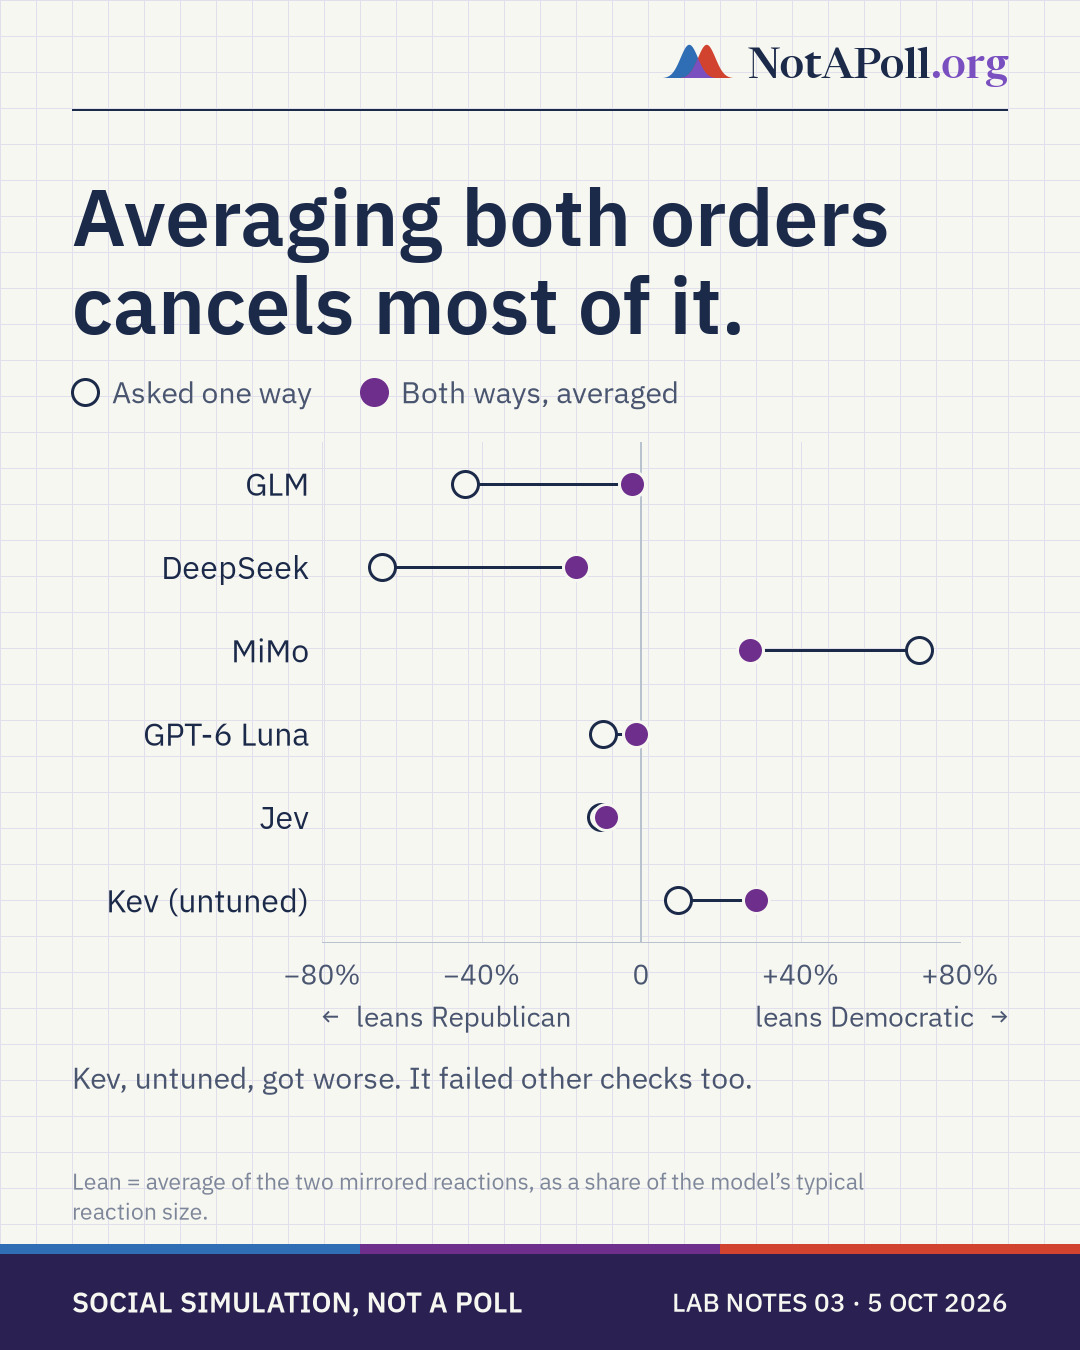
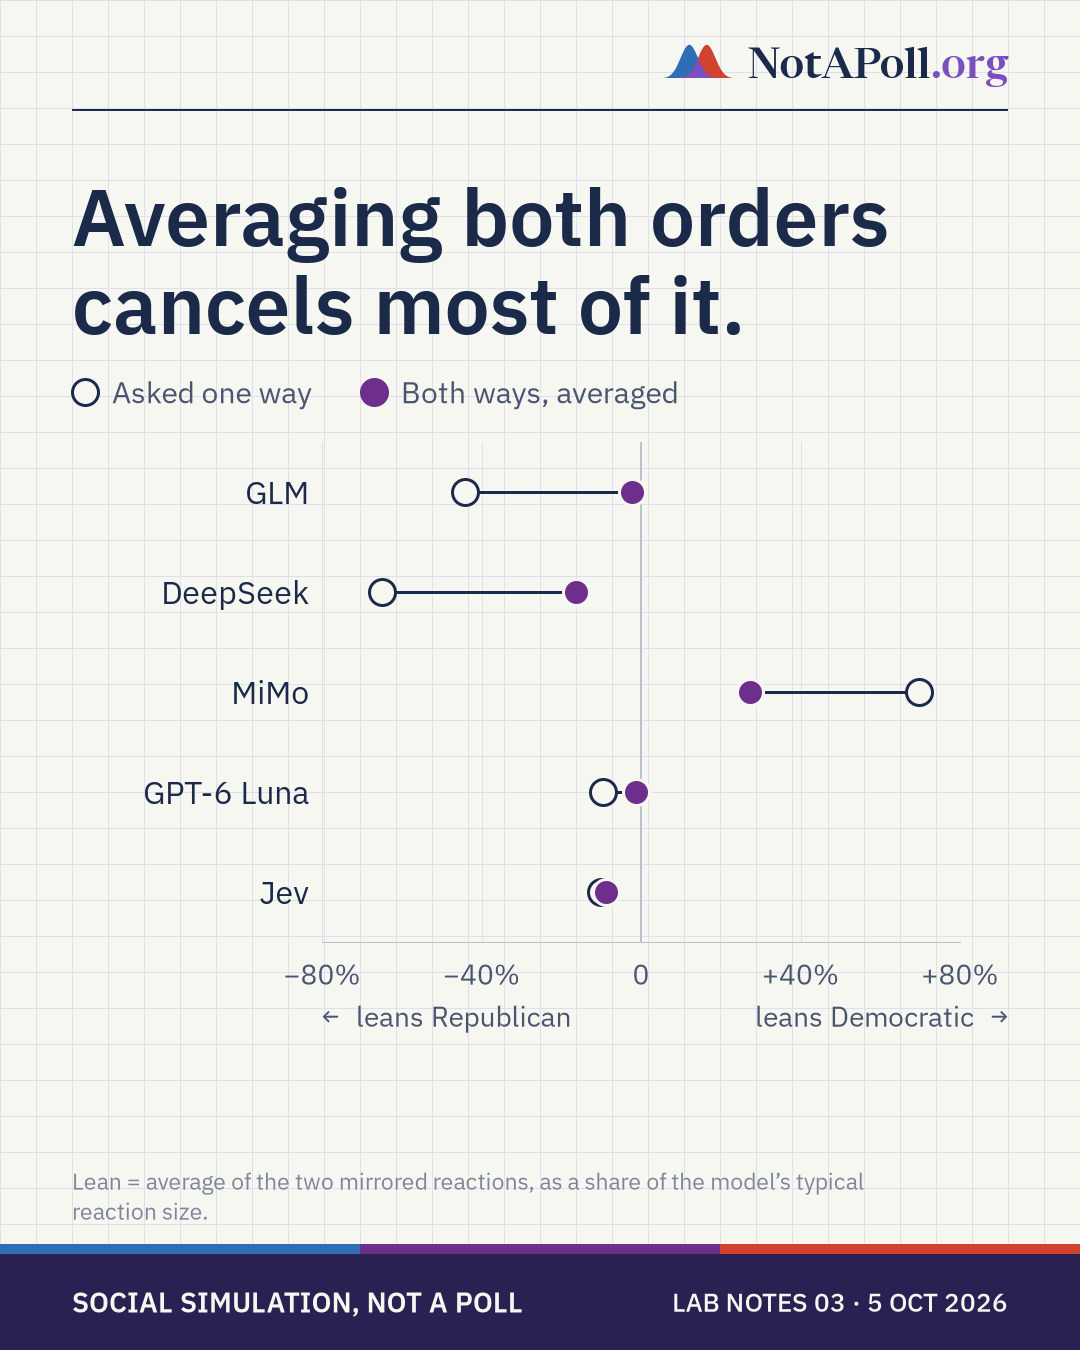
Site: Lab notes 03 on the preview without the Kev passages and with the fixed slide 3 (Matteo, 'ln03 fix yes', 4 Oct); still off notapoll.org

diff --git a/site/content/labnotes/03/post.md b/site/content/labnotes/03/post.md
@@ -14,7 +14,7 @@ Draft for Matteo's approval. Planned date: Mon 05 Oct 2026.
 
 1. `slide-1.jpg`: One model looked Republican. It was the order of the answers. We test every model for a built-in party lean: GLM's, as a share of a typical reaction, was −44% asked one way and −2% asked both ways.
 2. `slide-2.jpg`: We tell every story twice, with the parties swapped; a fair model mirrors itself exactly. Then every question is asked in both orders.
-3. `slide-3.jpg`: Dot chart of each model's built-in lean, as a share of a typical reaction, one way versus both ways averaged: GLM −44% → −2%, DeepSeek −65% → −16%, MiMo +70% → +27%; the rest near zero except untuned Kev, which got worse.
+3. `slide-3.jpg`: Dot chart of each model's built-in lean, as a share of a typical reaction, one way versus both ways averaged: GLM −44% → −2%, DeepSeek −65% → −16%, MiMo +70% → +27%; GPT-6 Luna and Jev near zero.
 4. `slide-4.jpg`: Now every question is asked both ways. A fixed correction removed only about two-thirds of the lean.
 
 ## Instagram caption
@@ -58,10 +58,10 @@ Averaging both orders cancels most of it.
 
 Asked one way, GLM-5.3 Flash leaned 44% of its typical reaction toward Republicans. Asked both ways and averaged, the lean fell to 2%. DeepSeek went from −65% to −16%, and MiMo, which leaned the other way, from +70% to +27%.
 
-GPT-6 Luna barely leaned either way, and Jev's small lean hardly changed. One got worse: Kev, before any training of ours, leaned more after averaging. It had failed other checks too, which is part of why we trained our own version.
+GPT-6 Luna barely leaned either way, and Jev's small lean hardly changed.
 
 #### In detail
-Negative numbers lean Republican and positive numbers lean Democratic. Kev untuned went from +9% to +29%. These are leans on stories built to be perfectly symmetric, so a fair model would score zero; they say nothing about which party any real event helps.
+Negative numbers lean Republican and positive numbers lean Democratic. These are leans on stories built to be perfectly symmetric, so a fair model would score zero; they say nothing about which party any real event helps.
 
 {{slide:4}}
 So every question in our forecast is asked both ways.
